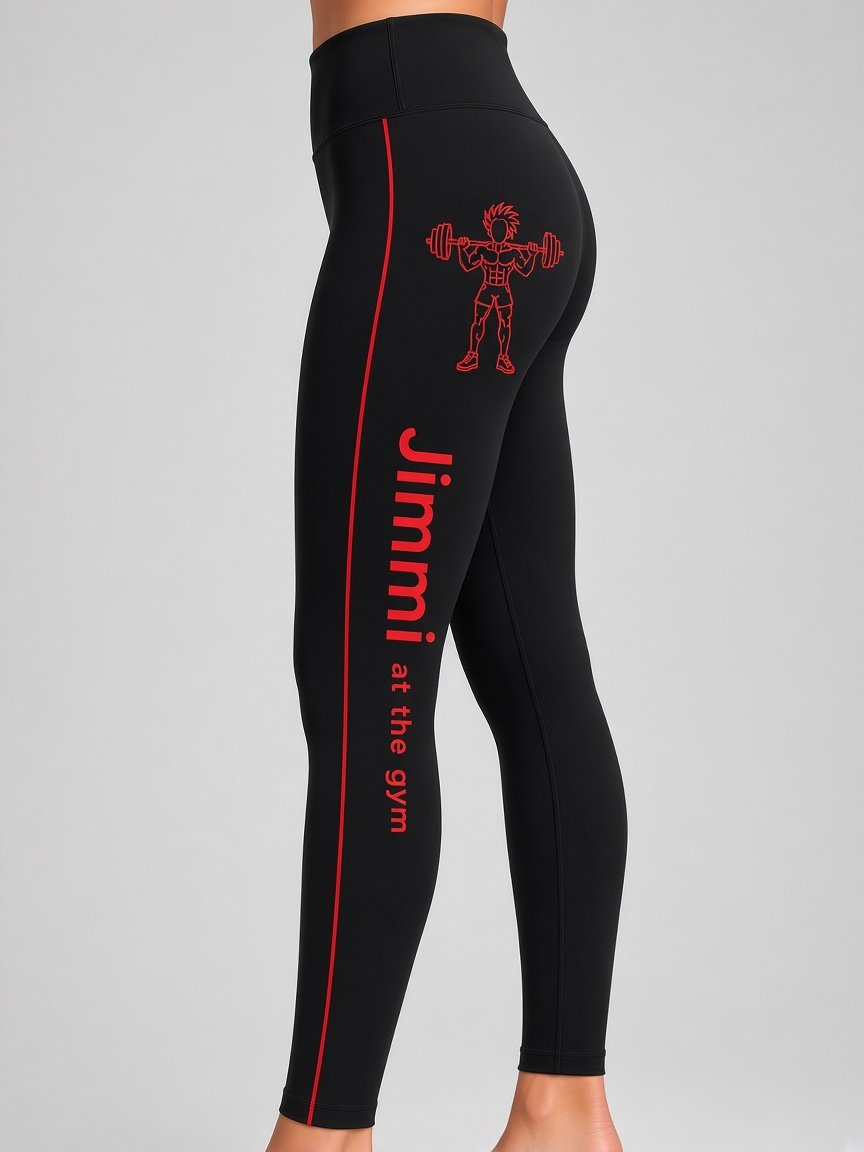
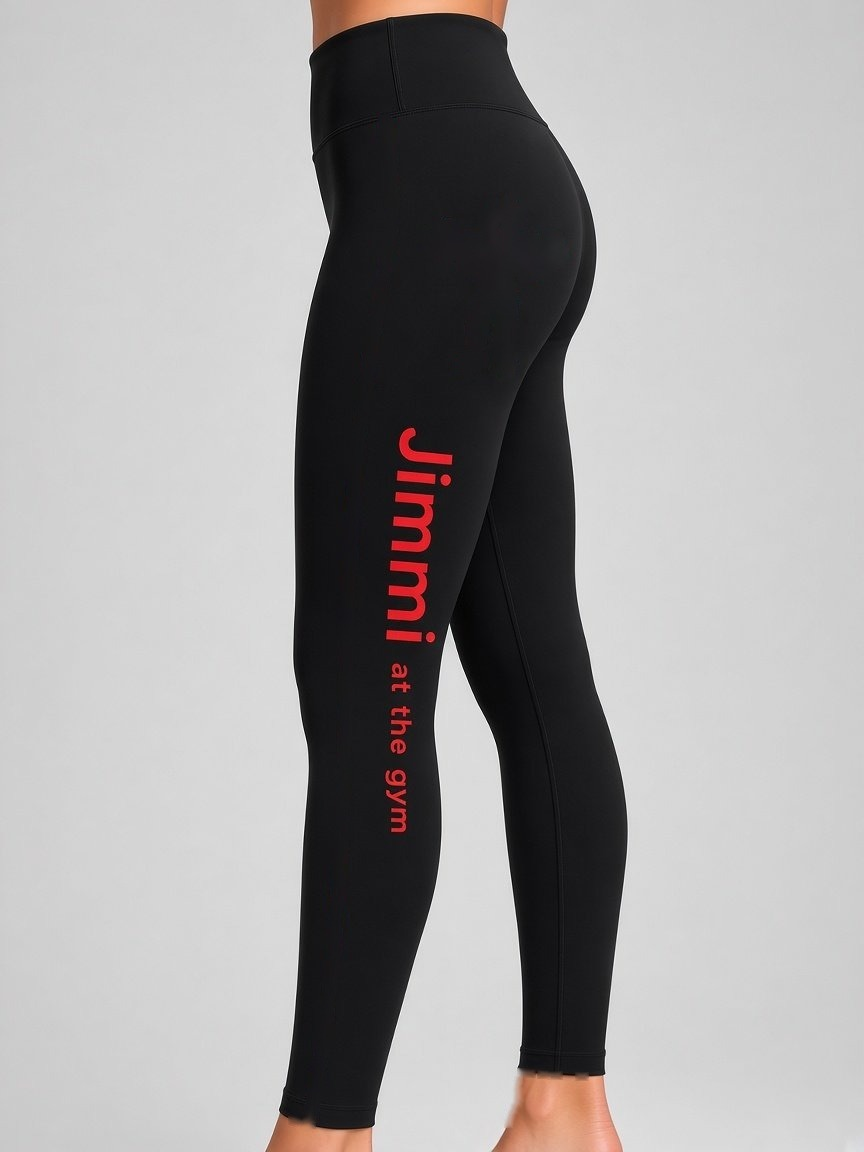
Black & Red: text only

diff --git a/products.js b/products.js
@@ -13,7 +13,7 @@ window.JIMMI_PRODUCTS = [
   {"id": "ls2-white", "name": "Long Sleeve 2 — White", "blurb": "Smooth jersey long sleeve with the Tee 4 design.", "sku": "Preview · price TBD", "image": "assets/products/print/ls2-white-print.jpg", "etsyUrl": "https://www.etsy.com", "tag": "New · Long Sleeve"},
   {"id": "tee6-black", "name": "Tee 6 — Black", "blurb": "White Buff Jimmi logo, red hair, printed red and white stripes over the shoulders and down the sleeves.", "sku": "Preview · price TBD", "image": "assets/products/print/tee6-black-print-v3.jpg", "etsyUrl": "https://www.etsy.com", "tag": "New · Tee"},
   {"id": "leggings-navy-yellow", "name": "Navy & Yellow Leggings", "blurb": "Full-length high-waist leggings, yellow JIMMI wordmark down the leg, Buff Jimmi logo on the calf.", "sku": "Preview · price TBD", "image": "assets/products/print/leggings-A1.jpg", "etsyUrl": "https://www.etsy.com", "tag": "New · Women"},
-  {"id": "leggings-black-red", "name": "Black & Red 7/8 Leggings", "blurb": "7/8-length black leggings with a printed red side stripe, Buff Jimmi logo on the hip, wordmark down the leg.", "sku": "Preview · price TBD", "image": "assets/products/print/leggings-A2-v2.jpg", "etsyUrl": "https://www.etsy.com", "tag": "New · Women"},
+  {"id": "leggings-black-red", "name": "Black & Red 7/8 Leggings", "blurb": "Black 7/8 leggings with a simple red \"Jimmi at the gym\" down the thigh. Nothing else, clean and simple.", "sku": "Preview · price TBD", "image": "assets/products/print/leggings-A2-v2.jpg", "etsyUrl": "https://www.etsy.com", "tag": "New · Women"},
   {"id": "leggings-teal-coral", "name": "Teal & Coral Color-Block Leggings", "blurb": "Teal and coral color-block leggings, Buff Jimmi logo on the thigh, wordmark on the lower leg.", "sku": "Preview · price TBD", "image": "assets/products/print/leggings-A4-v2.jpg", "etsyUrl": "https://www.etsy.com", "tag": "New · Women"},
   {"id": "leggings-cobalt-orange", "name": "Cobalt & Orange 7/8 Leggings", "blurb": "7/8-length cobalt leggings, orange wordmark on the thigh, orange Jimmi head on the ankle, and \"If Jimmi can do it, anyone can.\" on the back waistband.", "sku": "Preview · price TBD", "image": "assets/products/print/leggings-A5.jpg", "etsyUrl": "https://www.etsy.com", "tag": "New · Women"}
 ];

diff --git a/sw.js b/sw.js
@@ -1,4 +1,4 @@
-const C='jimmi-v14';
+const C='jimmi-v15';
 self.addEventListener('install',e=>{e.waitUntil(caches.open(C).then(c=>c.addAll(['./','index.html','styles.css','products.js','manifest.webmanifest','icon-192.png','studio.html','studio.css','studio.js','assets/studio/logo-body.png','assets/studio/logo-hair.png','assets/studio/wordmark.png'])));self.skipWaiting();});
 self.addEventListener('activate',e=>{e.waitUntil(caches.keys().then(k=>Promise.all(k.filter(x=>x!==C).map(x=>caches.delete(x)))));self.clients.claim();});
 self.addEventListener('fetch',e=>{const r=e.request;if(r.method!=='GET'||r.headers.has('range'))return;
